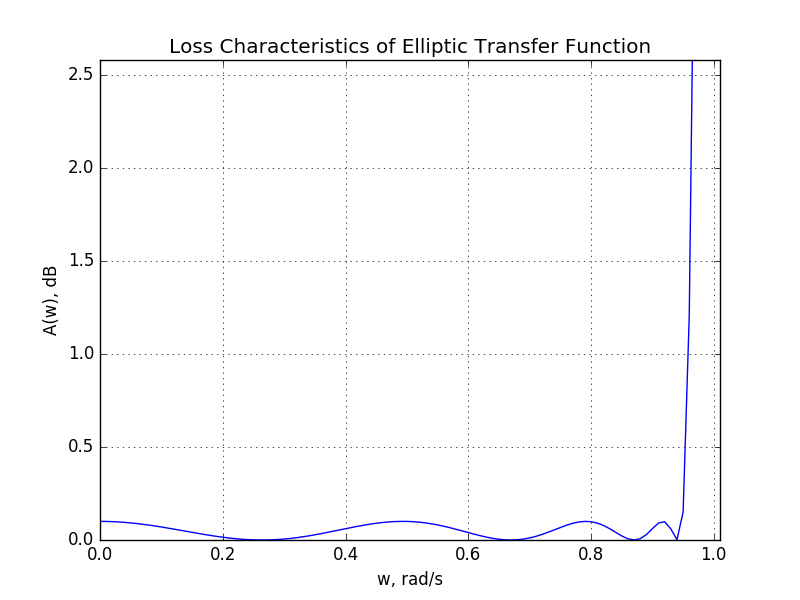
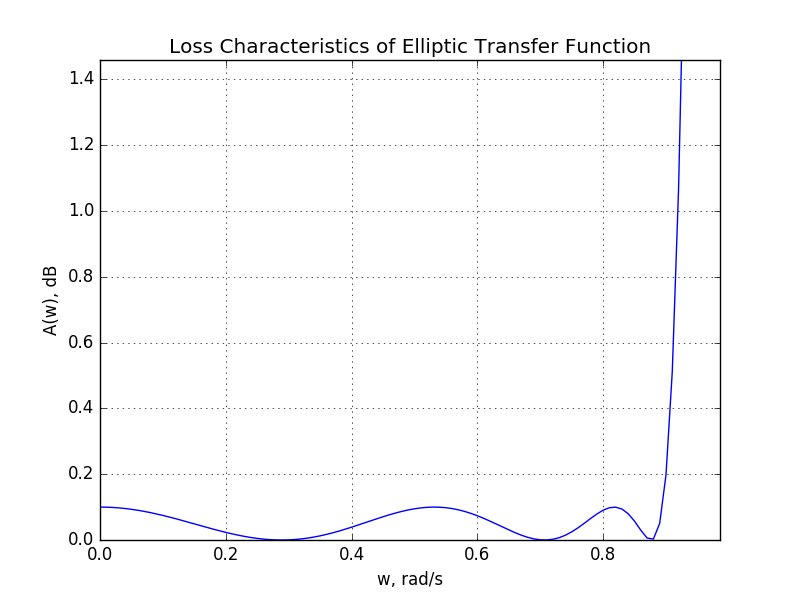
Changed k, Aa, Ap of even order test
Changed k, Aa, Ap of even order test and updated the "even order loss
char" and "even order loss char 0 to 1" PNGs.

diff --git a/elliptic.py b/elliptic.py
@@ -139,8 +139,7 @@ def plot_loss(H0, a0, b, o0, r, n):
 	plt.show()
 	return 0
 
-
-test0_H0, test0_a0, test0_b, test0_o0, test0_r, test0_n = elliptic(0.9, 0.1, 50.0) #even order
+test0_H0, test0_a0, test0_b, test0_o0, test0_r, test0_n = elliptic(0.8, 0.1, 40.0) #even order
 plot_loss(test0_H0, test0_a0, test0_b, test0_o0, test0_r, test0_n) #even order
 
 test1_H0, test1_a0, test1_b, test1_o0, test1_r, test1_n = elliptic(0.7, 0.2, 61.0) #odd order
